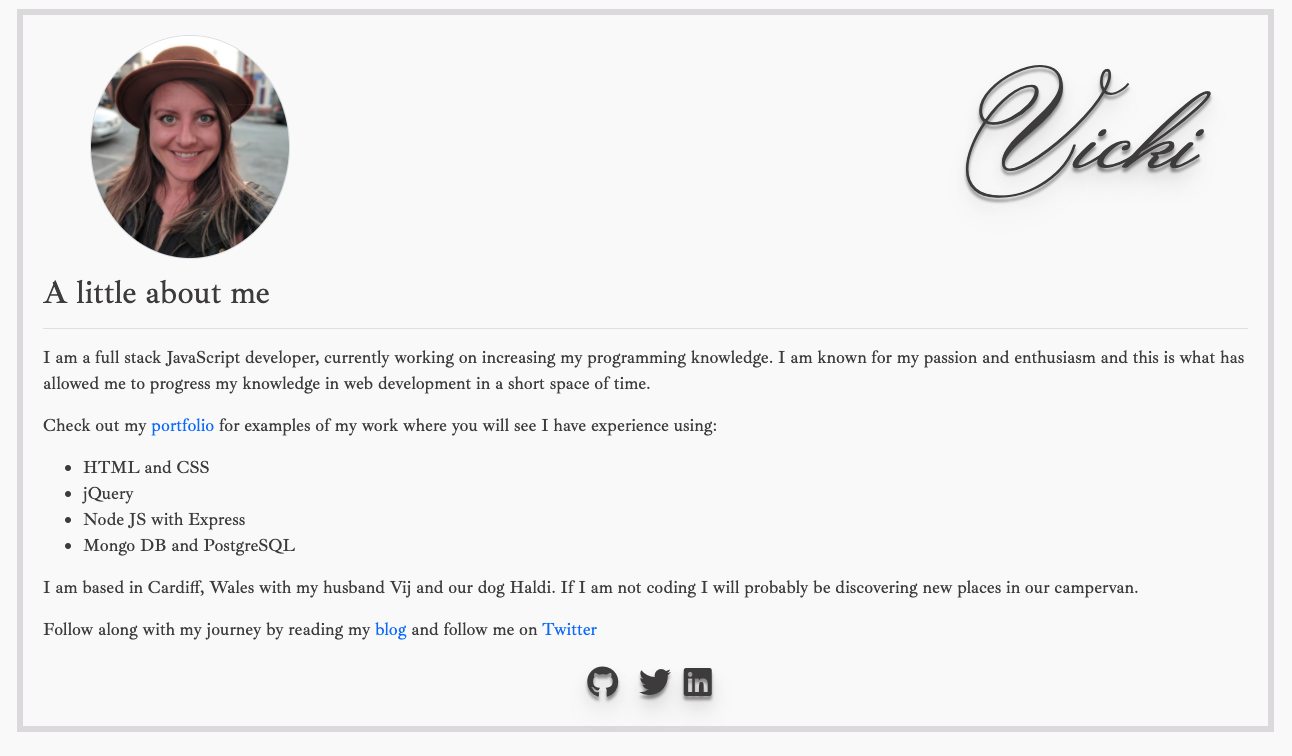
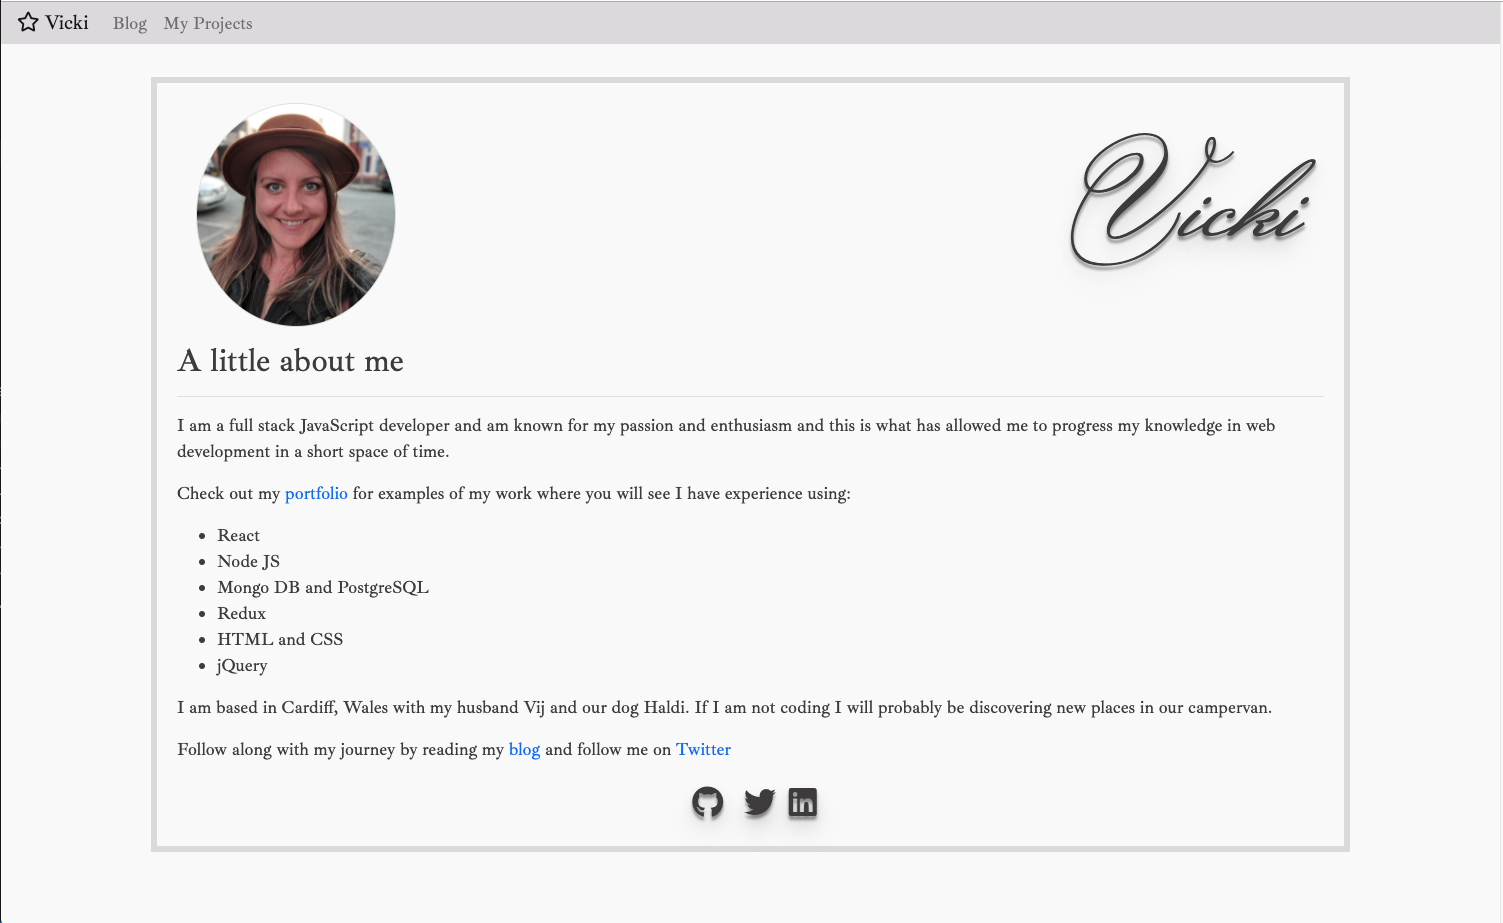
add streamr and testme to portfolio

Changed region(s): [[0.0, 0.0, 1.0, 0.9735]]

diff --git a/projects/index.html b/projects/index.html
@@ -52,12 +52,32 @@
       <div class="row">
         <div class="col-sm">
           <div class="card mb-3">
-              <img src="campsitereviews.gif" class="card-img-top border" alt="...">
+              <img src="testme.png" class="card-img-top border" alt="...">
               <div class="card-body">
-                <h5 class="card-title">Campsite Reviews</h5>
-                <p class="card-text">A campsite database with personal recommendations. This is a large app to add to my portfolio with the aim of displaying what I have learnt so far. The app was deployed 2 months into learning to code.</p>
-                <a href="http://campsite-reviews.herokuapp.com/" class="btn btn-outline-info">Go To Site</a>
-                <a href="https://github.com/Vickicodes/TeamV_CampsiteReviews" class="btn btn-outline-secondary align-bottom">View Code</a>
+                <h5 class="card-title">Test Me - a CLI tool</h5>
+                <p class="card-text">A JavaScript testing framework that works on both node and browser based apps.</p>
+                <a href="https://github.com/Vickicodes/testme" class="btn btn-outline-secondary align-bottom">View Code</a>
+              </div>
+            </div>
+        </div>
+        <div class="col-sm">
+          <div class="card mb-3">
+            <img src="campsitereviews.gif" class="card-img-top border" alt="...">
+            <div class="card-body">
+              <h5 class="card-title">Campsite Reviews</h5>
+              <p class="card-text">A campsite database with personal recommendations. This is a large app to add to my portfolio with the aim of displaying what I have learnt so far. The app was deployed 2 months into learning to code.</p>
+              <a href="http://campsite-reviews.herokuapp.com/" class="btn btn-outline-info">Go To Site</a>
+              <a href="https://github.com/Vickicodes/TeamV_CampsiteReviews" class="btn btn-outline-secondary align-bottom">View Code</a>
+            </div>
+          </div>
+        </div>
+        <div class="col-sm">
+          <div class="card mb-3">
+              <img src="streamr.png" class="card-img-top border" alt="...">
+              <div class="card-body">
+                <h5 class="card-title">Stream-r</h5>
+                <p class="card-text">A live video streaming app created with React and Redux</p>
+                <a href="https://github.com/Vickicodes/stream-r" class="btn btn-outline-secondary align-bottom">View Code</a>
               </div>
             </div>
         </div>
@@ -138,12 +158,12 @@
           </div>
         </div>
     </div>
-</div>
-    
- 
-      
-
-<script src="https://code.jquery.com/jquery-3.4.1.slim.min.js" integrity="sha384-J6qa4849blE2+poT4WnyKhv5vZF5SrPo0iEjwBvKU7imGFAV0wwj1yYfoRSJoZ+n" crossorigin="anonymous"></script>
+  </div>
+  
+  
+  
+  
+  <script src="https://code.jquery.com/jquery-3.4.1.slim.min.js" integrity="sha384-J6qa4849blE2+poT4WnyKhv5vZF5SrPo0iEjwBvKU7imGFAV0wwj1yYfoRSJoZ+n" crossorigin="anonymous"></script>
 <script src="https://cdn.jsdelivr.net/npm/popper.js@1.16.0/dist/umd/popper.min.js" integrity="sha384-Q6E9RHvbIyZFJoft+2mJbHaEWldlvI9IOYy5n3zV9zzTtmI3UksdQRVvoxMfooAo" crossorigin="anonymous"></script>
 <script src="https://stackpath.bootstrapcdn.com/bootstrap/4.4.1/js/bootstrap.min.js" integrity="sha384-wfSDF2E50Y2D1uUdj0O3uMBJnjuUD4Ih7YwaYd1iqfktj0Uod8GCExl3Og8ifwB6" crossorigin="anonymous"></script>
 </body>

diff --git a/index.html b/index.html
@@ -58,7 +58,7 @@
 <h2 class="title">A little about me</h3>
 <hr>
     <p> 
-    I am a full stack JavaScript developer, currently working on increasing my programming knowledge. I am known for my passion and enthusiasm and this is what has allowed me to progress my knowledge in web development 
+    I am a full stack JavaScript developer and am known for my passion and enthusiasm and this is what has allowed me to progress my knowledge in web development 
     in a short space of time.
     </p>
     <p>
@@ -67,6 +67,7 @@
         <li>React</li>
         <li>Node JS</li>
         <li>Mongo DB and PostgreSQL</li>
+        <li>Redux</li>
         <li>HTML and CSS</li>
         <Li>jQuery</Li>
       </ul>
